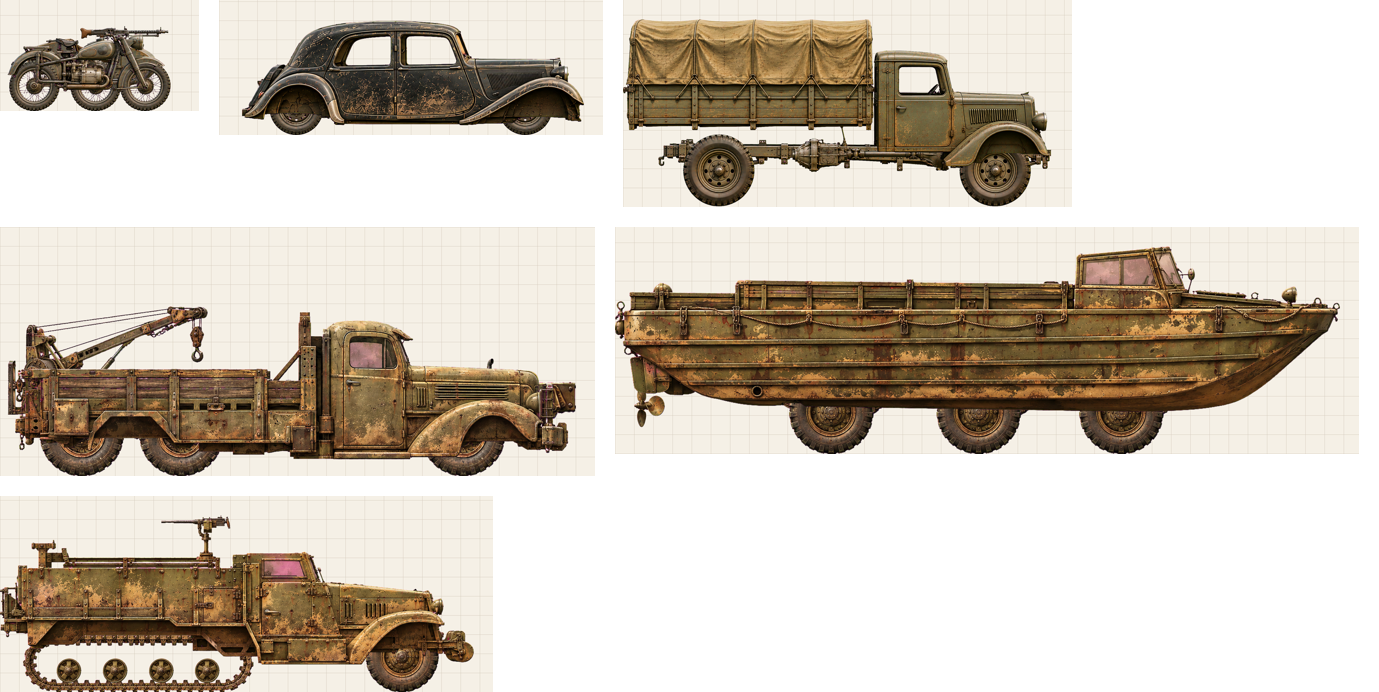
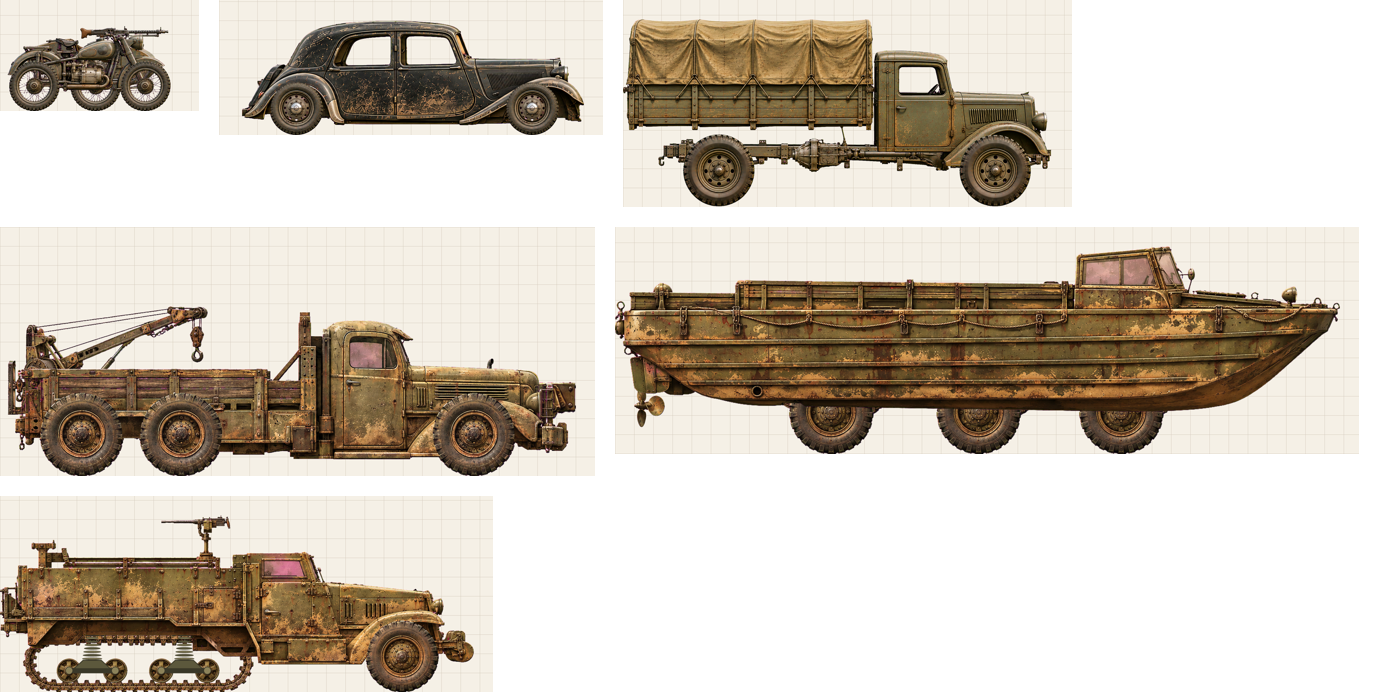
Art : roues devant le fond des passages de roue (calque caisse_avant), roues avant Traction et Diamond T avancées, suspension provisoire du Half-Track
Claude-Session: https://claude.ai/code/session_01FR7p1SMounZ9dfyGLEvtwk

diff --git a/tools/specs_vehicules.py b/tools/specs_vehicules.py
@@ -12,7 +12,7 @@ CELL = 0.25
 SLOTS = {"caisse": "carrosserie", "cabine": "carrosserie", "plateau": "carrosserie", "panier": "carrosserie",
          "grue": "carrosserie", "chassis": "chassis", "moteur": "moteur", "transmission": "transmission",
          "roue": "roulement", "chenille": "roulement", "galet": "roulement", "helice": "transmission",
-         "mitrailleuse": "armement"}
+         "mitrailleuse": "armement", "suspension": "roulement"}
 
 # véhicule : (nom, longueur, hauteur, {pièce: (x, y, w)}, [(pièce, décalage x, z), ...])
 SPECS = {
@@ -23,21 +23,21 @@ SPECS = {
         "transmission": (0.45, 0.28, 0.80), "moteur": (0.82, 0.41, 0.55), "roue": (0.12, 0.0, 0.66),
         "caisse": (0.10, 0.25, 2.05)},
         [("panier", 0, 0), ("roue", 0.80, 1), ("mitrailleuse", 0, 2), ("chassis", 0, 3), ("transmission", 0, 4),
-         ("moteur", 0, 5), ("roue", 0, 6), ("roue", 1.45, 6), ("caisse", 0, 7)]),
+         ("moteur", 0, 5), ("caisse", 0, 6), ("roue", 0, 6.2), ("roue", 1.45, 6.2)]),
     "citroen_traction": ("Citroën Traction Avant", 4.75, 1.52, {
         "chassis": (0.50, 0.19, 3.90), "transmission": (2.10, 0.22, 1.80), "moteur": (3.30, 0.30, 0.95),
         "roue": (0.66, 0.0, 0.70), "caisse": (0.30, 0.13, 4.45)},
-        [("chassis", 0, 1), ("transmission", 0, 2), ("moteur", 0, 3), ("roue", 0, 4), ("roue", 2.98, 4), ("caisse", 0, 5)]),
+        [("chassis", 0, 1), ("transmission", 0, 2), ("moteur", 0, 3), ("caisse", 0, 4), ("roue", 0, 4.2), ("roue", 3.07, 4.2)]),
     "citroen_t23": ("Citroën T23", 5.6, 2.4, {
         "chassis": (0.45, 0.36, 5.14), "transmission": (2.20, 0.45, 2.30), "moteur": (4.30, 0.80, 0.90),
         "roue": (0.775, 0.0, 0.95), "plateau": (0.0, 1.00, 3.30), "cabine": (3.26, 0.53, 2.30)},
-        [("chassis", 0, 1), ("transmission", 0, 2), ("moteur", 0, 3), ("roue", 0, 4), ("roue", 3.60, 4),
-         ("plateau", 0, 5), ("cabine", 0, 6)]),
+        [("chassis", 0, 1), ("transmission", 0, 2), ("moteur", 0, 3), ("roue", 0, 4), ("plateau", 0, 5), ("cabine", 0, 6),
+         ("roue", 3.60, 6.2)]),
     "diamond_t": ("Diamond T 969 dépanneuse", 7.42, 3.0, {
         "chassis": (0.83, 0.15, 6.67), "transmission": (4.50, 0.80, 0.80), "moteur": (5.65, 0.62, 0.95),
         "roue": (0.51, 0.0, 1.10), "caisse": (0.20, 0.22, 7.20), "grue": (0.10, 0.80, 2.60)},
-        [("chassis", 0, 1), ("transmission", 0, 2), ("moteur", 0, 3), ("roue", 0, 4), ("roue", 1.30, 4),
-         ("roue", 4.97, 4), ("grue", 0, 4.5), ("caisse", 0, 5)]),
+        [("chassis", 0, 1), ("transmission", 0, 2), ("moteur", 0, 3), ("grue", 0, 4.5), ("caisse", 0, 5),
+         ("roue", 0, 5.2), ("roue", 1.30, 5.2), ("roue", 5.11, 5.2)]),
     "dukw": ("DUKW", 9.45, 2.7, {
         "chassis": (1.64, 0.25, 6.20), "transmission": (5.00, 0.80, 0.80), "moteur": (6.30, 1.00, 1.10),
         "helice": (0.25, 0.35, 0.40), "roue": (2.27, 0.0, 1.10), "caisse": (0.0, 0.55, 9.45)},
@@ -45,11 +45,18 @@ SPECS = {
          ("roue", 1.92, 4), ("roue", 3.78, 4), ("caisse", 0, 5)]),
     "m3_half_track": ("M3 Half-Track", 6.17, 2.26, {
         "transmission": (3.80, 0.60, 0.70), "moteur": (4.70, 0.55, 0.85), "chenille": (0.30, 0.0, 3.00),
-        "galet": (0.74, 0.12, 0.32), "roue": (4.765, 0.0, 0.95), "caisse": (0.0, 0.36, 6.17),
+        "galet": (0.74, 0.12, 0.32), "suspension": (0.80, 0.20, 2.00), "roue": (4.765, 0.0, 0.95), "caisse": (0.0, 0.36, 6.17),
         "mitrailleuse": (2.10, 1.72, 0.90)},
         [("transmission", 0, 1), ("moteur", 0, 2), ("chenille", 0, 3), ("galet", 0, 4), ("galet", 0.6, 4),
-         ("galet", 1.2, 4), ("galet", 1.8, 4), ("roue", 0, 4), ("caisse", 0, 5), ("mitrailleuse", 0, 6)]),
+         ("galet", 1.2, 4), ("galet", 1.8, 4), ("suspension", 0, 4.3), ("caisse", 0, 5),
+         ("roue", 0, 5.2), ("mitrailleuse", 0, 6)]),
 }
+
+# Passages de roue : la caisse est redessinée devant les roues, percée d'un disque
+# un peu plus petit que la roue (le bord de l'aile recouvre le pneu).
+PASSAGES = {"bmw_r75": "caisse", "citroen_traction": "caisse", "citroen_t23": "cabine",
+            "diamond_t": "caisse", "m3_half_track": "caisse"}
+RAYON = 0.96
 
 def main():
     root = Path("docs/art/vehicules")
@@ -68,6 +75,16 @@ def main():
              "note": "Généré par tools/specs_vehicules.py. Cotes de prototypage, à affiner sur plans.",
              "images": images,
              "instances": [{"id": f"{p}_{n}", "image": p, "dx": dx / CELL, "z": z} for n, (p, dx, z) in enumerate(inst)]}
+        cible = PASSAGES.get(vid)
+        if cible:
+            box = {i["id"]: i["box"] for i in images}; cx0, cy0, cw, ch = box[cible]; zc = next(z for p, dx, z in inst if p == cible)
+            trous = []
+            for p, dx, z in inst:
+                if p == "roue" and z > zc:
+                    x, y, w, h = box["roue"]; c = (x + dx / CELL + w / 2, y + h / 2)
+                    if cx0 < c[0] < cx0 + cw and c[1] + h / 2 > cy0:
+                        trous.append([c[0], c[1], w / 2 * RAYON])
+            g["instances"].append({"id": f"{cible}_avant", "image": cible, "dx": 0, "z": max(z for p, dx, z in inst if p == "roue") + 0.1, "trous": trous})
         (root / vid / "gabarit.json").write_text(json.dumps(g, indent=1, ensure_ascii=False))
 
 if __name__ == "__main__":

diff --git a/tools/gabarits_vehicule.py b/tools/gabarits_vehicule.py
@@ -2,6 +2,8 @@
 
 Usage : python3 tools/gabarits_vehicule.py docs/art/vehicules/willys_mb
 - Écrit gabarits/<image>.png : silhouette noire sur blanc, à joindre à la consigne ChatGPT.
+- Si une instance a des "trous", écrit art/<image>_avant.png : la caisse percée aux roues,
+  à poser devant les roues (ordre : caisse, roues, caisse_avant).
 - Écrit assemblage.png : véhicule recombiné sur la grille de 25 cm.
   Si art/<image>.png existe (pièce dessinée, fond transparent), elle remplace la silhouette.
 """
@@ -39,7 +41,14 @@ def main(folder):
         img = images[inst["image"]]; bx, by, bw, bh = img["box"]; bx += inst["dx"]
         art = folder / "art" / f"{img['id']}.png"
         if art.exists():
-            piece = Image.open(art).convert("RGBA").resize((round(bw * ppc), round(bh * ppc)))
+            piece = Image.open(art).convert("RGBA")
+            if inst.get("trous"):  # calque avant : la caisse percée là où passent les roues
+                k = piece.width / (bw * ppc); dr = ImageDraw.Draw(piece)
+                for cx, cy, r in inst["trous"]:
+                    px, py, pr = (cx - bx) * ppc * k, (by + bh - cy) * ppc * k, r * ppc * k
+                    dr.ellipse([px - pr, py - pr, px + pr, py + pr], fill=(0, 0, 0, 0))
+                piece.save(folder / "art" / f"{img['id']}_avant.png")
+            piece = piece.resize((round(bw * ppc), round(bh * ppc)))
             sheet.alpha_composite(piece, (round(bx * ppc), round((H - by - bh) * ppc)))
         else:
             layer = Image.new("RGBA", sheet.size, (0, 0, 0, 0))

diff --git a/docs/art/PRODUCTION.md b/docs/art/PRODUCTION.md
@@ -182,6 +182,10 @@ complet sert d'épave de décor (`decor/epave_*.png`), les petites pièces de bu
 - Assemblages faits le 2026-10-29 par `tools/specs_vehicules.py` (cotes de prototypage).
   Roues recalées le 2026-10-29 : centres sur les passages de roue mesurés sur chaque caisse,
   moyeux du châssis alignés sur les roues.
+  Passages de roue : ordre d'affichage caisse → roues → `caisse_avant` (caisse percée d'un
+  disque à 96 % du rayon de roue). Les roues passent devant le fond du passage de roue,
+  le bord de l'aile recouvre le pneu. Même ordre dans Godot (3 sprites).
+  Half-Track : `suspension.png` provisoire (bogies, ressorts), à faire dessiner.
   Le panier du BMW est presque caché par la moto en vue de profil (normal).
 - Reste à faire par Claude (chars seulement) : `gabarit.json` et `assemblage.png` de chaque véhicule.
 
